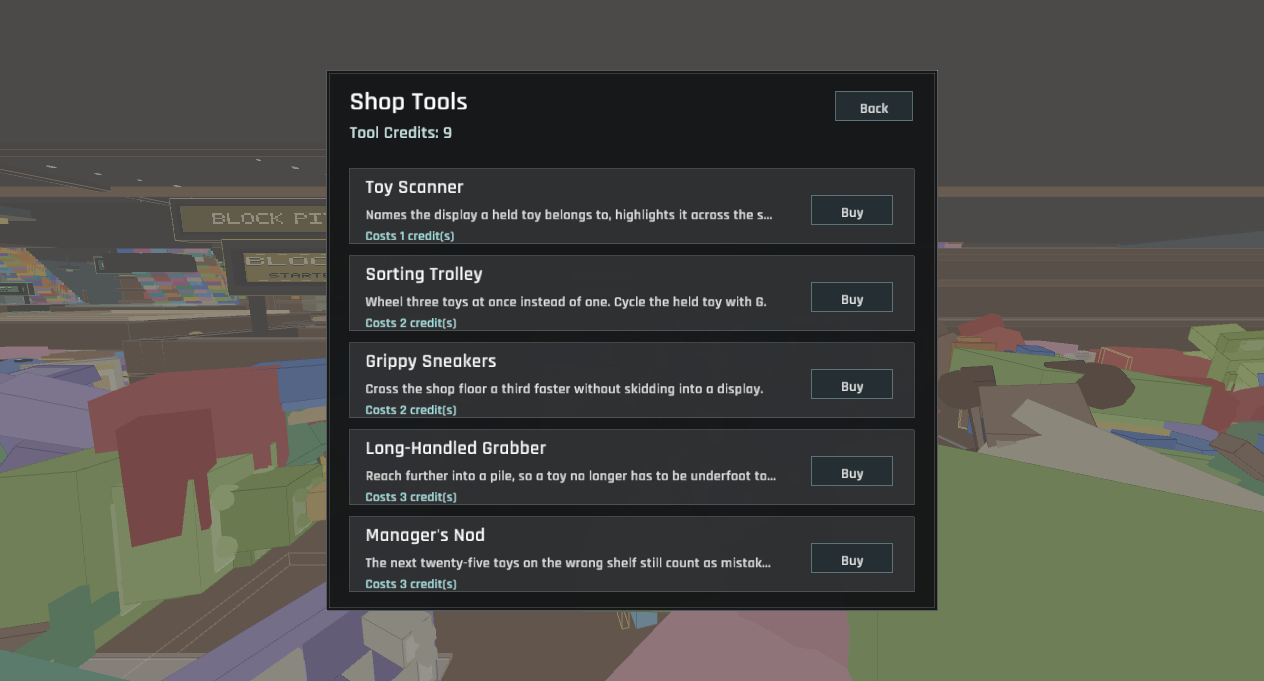
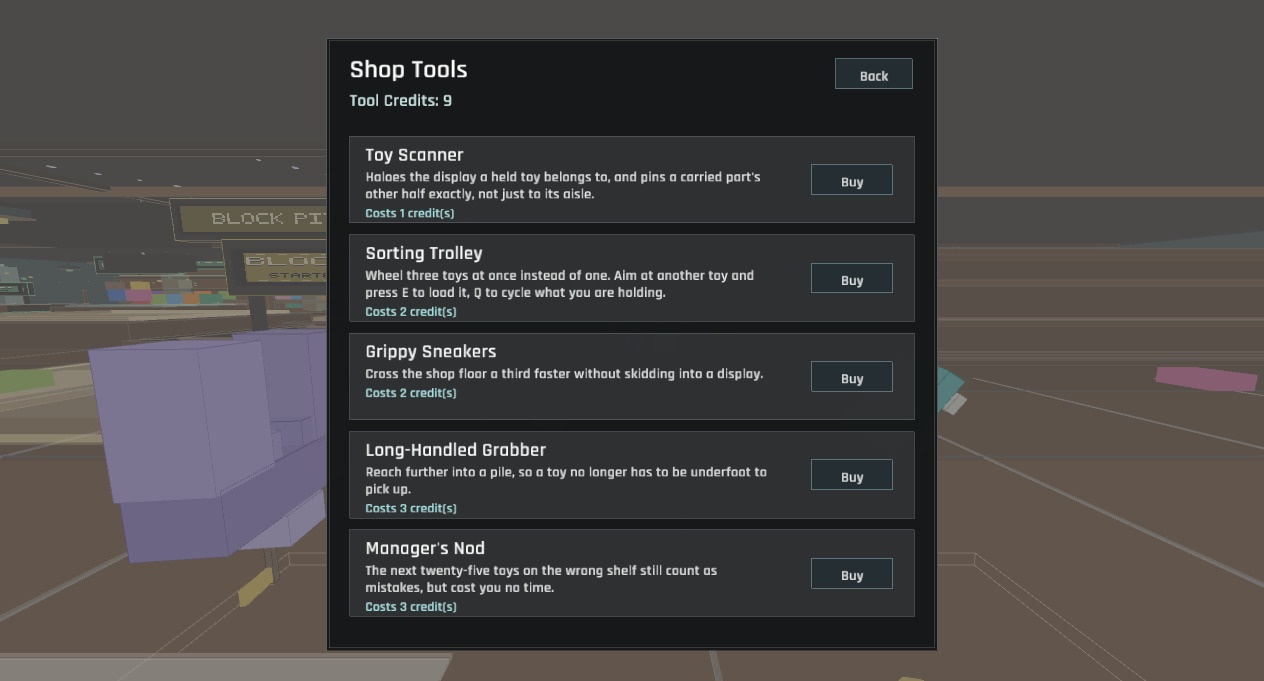
The shop was cutting off the sentence that teaches the trolley
Four of the five tool descriptions ended mid-word with an ellipsis, because the
row drew them with `draw_fitted_text`, which fits to a single line. The shop is
the only place a tool is explained, so a player deciding what to spend credits
on was reading half a sentence.

The worst of them was mine. When the Sorting Trolley got an input path I added
"Aim at another toy and press E to load it, Q to cycle what you are holding" to
its description, because that is the only place the game says how to use the
carry limit it just sold. The shop cut it at "Aim at another toy and p...". The
fix went in eleven iterations ago and the instruction has never once been
visible.

Rows wrap to two lines now, the panel grew to suit, and the status line follows
the description rather than sitting at a fixed offset, so a one-line entry does
not leave a hole. The Toy Scanner still overran two lines afterwards, so its
text was tightened rather than a feature dropped from it — it haloes a display
and pins a counterpart, and it still says both.

A character budget in `every_tool_is_reachable_and_uniquely_named` guards the
class. It is a proxy and the comment says so: rendered width needs a GL context
that headless tests do not have, so the real check is re-capturing `tool_shop`,
which is what found this.

Worth noting what did not find it. Seventy-one tests, a clean clippy, a clean
WASM build and a successful deploy all passed over a shop screen that was
[…]

diff --git a/src/ui/widgets.rs b/src/ui/widgets.rs
@@ -15,3 +15,71 @@ pub(super) fn draw_fitted_text(
     let fitted = truncate_text_to_width(text, max_width, size);
     draw_ui_text_ex(&fitted, x, baseline_y, TextStyle::new(size, color).params());
 }
+
+/// Wrap on word boundaries and draw up to `max_lines`, truncating only the last
+/// line if it still will not fit.
+///
+/// `draw_fitted_text` cuts at one line, which is right for a HUD notice but
+/// wrong for a shop entry the player is reading to decide what to buy: four of
+/// the five tool descriptions ended mid-word, and the Sorting Trolley's lost
+/// the half that explains how to load it — the only place the game teaches that.
+///
+/// Returns the baseline of the last line drawn, so callers can lay out whatever
+/// follows without assuming how many lines the text took.
+/// How a wrapped block is set. Grouped so `draw_wrapped_text` keeps a readable
+/// call: the position and width are the caller's layout, these are the type.
+#[derive(Debug, Clone, Copy)]
+pub(super) struct WrapStyle {
+    pub size: f32,
+    pub line_height: f32,
+    pub max_lines: usize,
+    pub color: Color,
+}
+
+pub(super) fn draw_wrapped_text(
+    text: &str,
+    x: f32,
+    baseline_y: f32,
+    max_width: f32,
+    style: WrapStyle,
+) -> f32 {
+    let WrapStyle {
+        size,
+        line_height,
+        max_lines,
+        color,
+    } = style;
+    let mut line = String::new();
+    let mut lines: Vec<String> = Vec::new();
+
+    for word in text.split_whitespace() {
+        let candidate = if line.is_empty() {
+            word.to_owned()
+        } else {
+            format!("{line} {word}")
+        };
+        // The toolkit shortens anything too wide, so an unchanged string is the
+        // signal that it fits — no separate measuring path to keep in step.
+        if truncate_text_to_width(&candidate, max_width, size) == candidate {
+            line = candidate;
+            continue;
+        }
+        if !line.is_empty() {
+            lines.push(std::mem::take(&mut line));
+            if lines.len() == max_lines {
+                break;
+            }
+        }
+        line = word.to_owned();
+    }
+    if !line.is_empty() && lines.len() < max_lines {
+        lines.push(line);
+    }
+
+    let mut last_baseline = baseline_y;
+    for (index, line) in lines.iter().enumerate() {
+        last_baseline = baseline_y + index as f32 * line_height;
+        draw_fitted_text(line, x, last_baseline, max_width, size, color);
+    }
+    last_baseline
+}

diff --git a/src/ui.rs b/src/ui.rs
@@ -29,7 +29,7 @@ use hud::{draw_game_hud, pointer_blocking_rects};
 use scene3d::draw_shop_scene;
 pub use space::{begin_ui_frame, end_ui_frame, set_ui_camera};
 pub(crate) use title::{draw_settings_screen, draw_title_screen};
-use widgets::draw_fitted_text;
+use widgets::{draw_fitted_text, draw_wrapped_text, WrapStyle};
 
 pub const LOGICAL_WIDTH: f32 = 1280.0;
 pub const LOGICAL_HEIGHT: f32 = 720.0;
@@ -97,7 +97,9 @@ pub(crate) fn draw_tool_shop_screen(ctx: UiContext<'_>) -> Vec<UiAction> {
 
     let mut actions = Vec::new();
     let mouse = logical_mouse_position();
-    let panel = Rect::new(330.0, 74.0, 620.0, 572.0);
+    // Tall enough for two description lines per row: at one line, four of the
+    // five tools ended mid-word and the player was buying blind.
+    let panel = Rect::new(330.0, 40.0, 620.0, 648.0);
     draw_surface(
         panel,
         &SurfaceStyle::new(Color::new(0.060, 0.068, 0.078, 0.98))
@@ -133,9 +135,9 @@ pub(crate) fn draw_tool_shop_screen(ctx: UiContext<'_>) -> Vec<UiAction> {
     for (index, upgrade) in ctx.data.upgrades.iter().enumerate() {
         let row = Rect::new(
             panel.x + 24.0,
-            panel.y + 104.0 + index as f32 * 92.0,
+            panel.y + 104.0 + index as f32 * 104.0,
             panel.w - 48.0,
-            80.0,
+            92.0,
         );
         draw_tool_row(row, upgrade, &ctx, mouse, &mut actions);
     }
@@ -225,26 +227,30 @@ fn draw_tool_row(
         rect.y + 26.0,
         TextStyle::new(19.0, dark::TEXT_BRIGHT).params(),
     );
-    draw_fitted_text(
+    let last_line = draw_wrapped_text(
         &upgrade.description,
         rect.x + 16.0,
-        rect.y + 54.0,
+        rect.y + 48.0,
         rect.w - 156.0,
-        14.0,
-        dark::TEXT,
+        WrapStyle {
+            size: 14.0,
+            line_height: 18.0,
+            max_lines: 2,
+            color: dark::TEXT,
+        },
     );
 
     let (status, status_color, can_buy) = tool_status(upgrade, ctx);
     draw_fitted_text(
         &status,
         rect.x + 16.0,
-        rect.y + 76.0,
+        last_line + 20.0,
         rect.w - 156.0,
         13.0,
         status_color,
     );
 
-    let button = Rect::new(rect.right() - 104.0, rect.y + 28.0, 82.0, 32.0);
+    let button = Rect::new(rect.right() - 104.0, rect.y + 30.0, 82.0, 32.0);
     if tool_shop_button(button, "Buy", can_buy, mouse) {
         actions.push(UiAction::BuyTool(upgrade.id.clone()));
     }

diff --git a/src/data.rs b/src/data.rs
@@ -234,6 +234,9 @@ mod tests {
     /// once but owned twice — `has_upgrade` matches by id.
     #[test]
     fn every_tool_is_reachable_and_uniquely_named() {
+        /// Roughly two wrapped lines at the shop's 14px description size.
+        const DESCRIPTION_BUDGET: usize = 125;
+
         let data = GameData::load().unwrap();
         assert!(!data.upgrades.is_empty());
 
@@ -251,6 +254,19 @@ mod tests {
                 upgrade.id,
                 upgrade.unlock_completed_displays,
                 data.displays.len()
+            );
+            // The shop row gives a description two wrapped lines. Rendered width
+            // cannot be measured without a GL context, so this guards the
+            // proxy — but it is the measure that broke: four of five tools once
+            // ended mid-word, and the Sorting Trolley lost the half explaining
+            // how to load it, which the shop is the only place to learn.
+            // Re-capture `tool_shop` after changing any of these.
+            assert!(
+                upgrade.description.len() <= DESCRIPTION_BUDGET,
+                "{} has a {}-character description; the shop row fits about {}",
+                upgrade.id,
+                upgrade.description.len(),
+                DESCRIPTION_BUDGET
             );
             total_cost += upgrade.cost;
         }

diff --git a/TODO.md b/TODO.md
@@ -34,6 +34,7 @@
 
 ## Polish
 
+- **The tool shop was truncating four of its five descriptions**, each mid-word, because the row gave the text one `draw_fitted_text` line. The shop is the only place a tool is explained, so a player was buying blind — and the worst loss was the Sorting Trolley's "press E to load it, Q to cycle", the sole place the game teaches how to use the carry limit it just sold. Rows now wrap to two lines (`draw_wrapped_text`), the panel grew to suit, and the Toy Scanner's text was tightened to fit rather than a feature dropped from it. `every_tool_is_reachable_and_uniquely_named` guards a character budget as a proxy — rendered width needs a GL context, so re-capture `tool_shop` after editing any description.
 - README refreshed for the 240-toy shop, both shift modes, the tool table and the `Q` key. `catalog_thumbnail.png` needed no regeneration: it is a crop of the title art, not a screenshot of the menu, so the new buttons do not appear in it.
 
 ## Engineering
